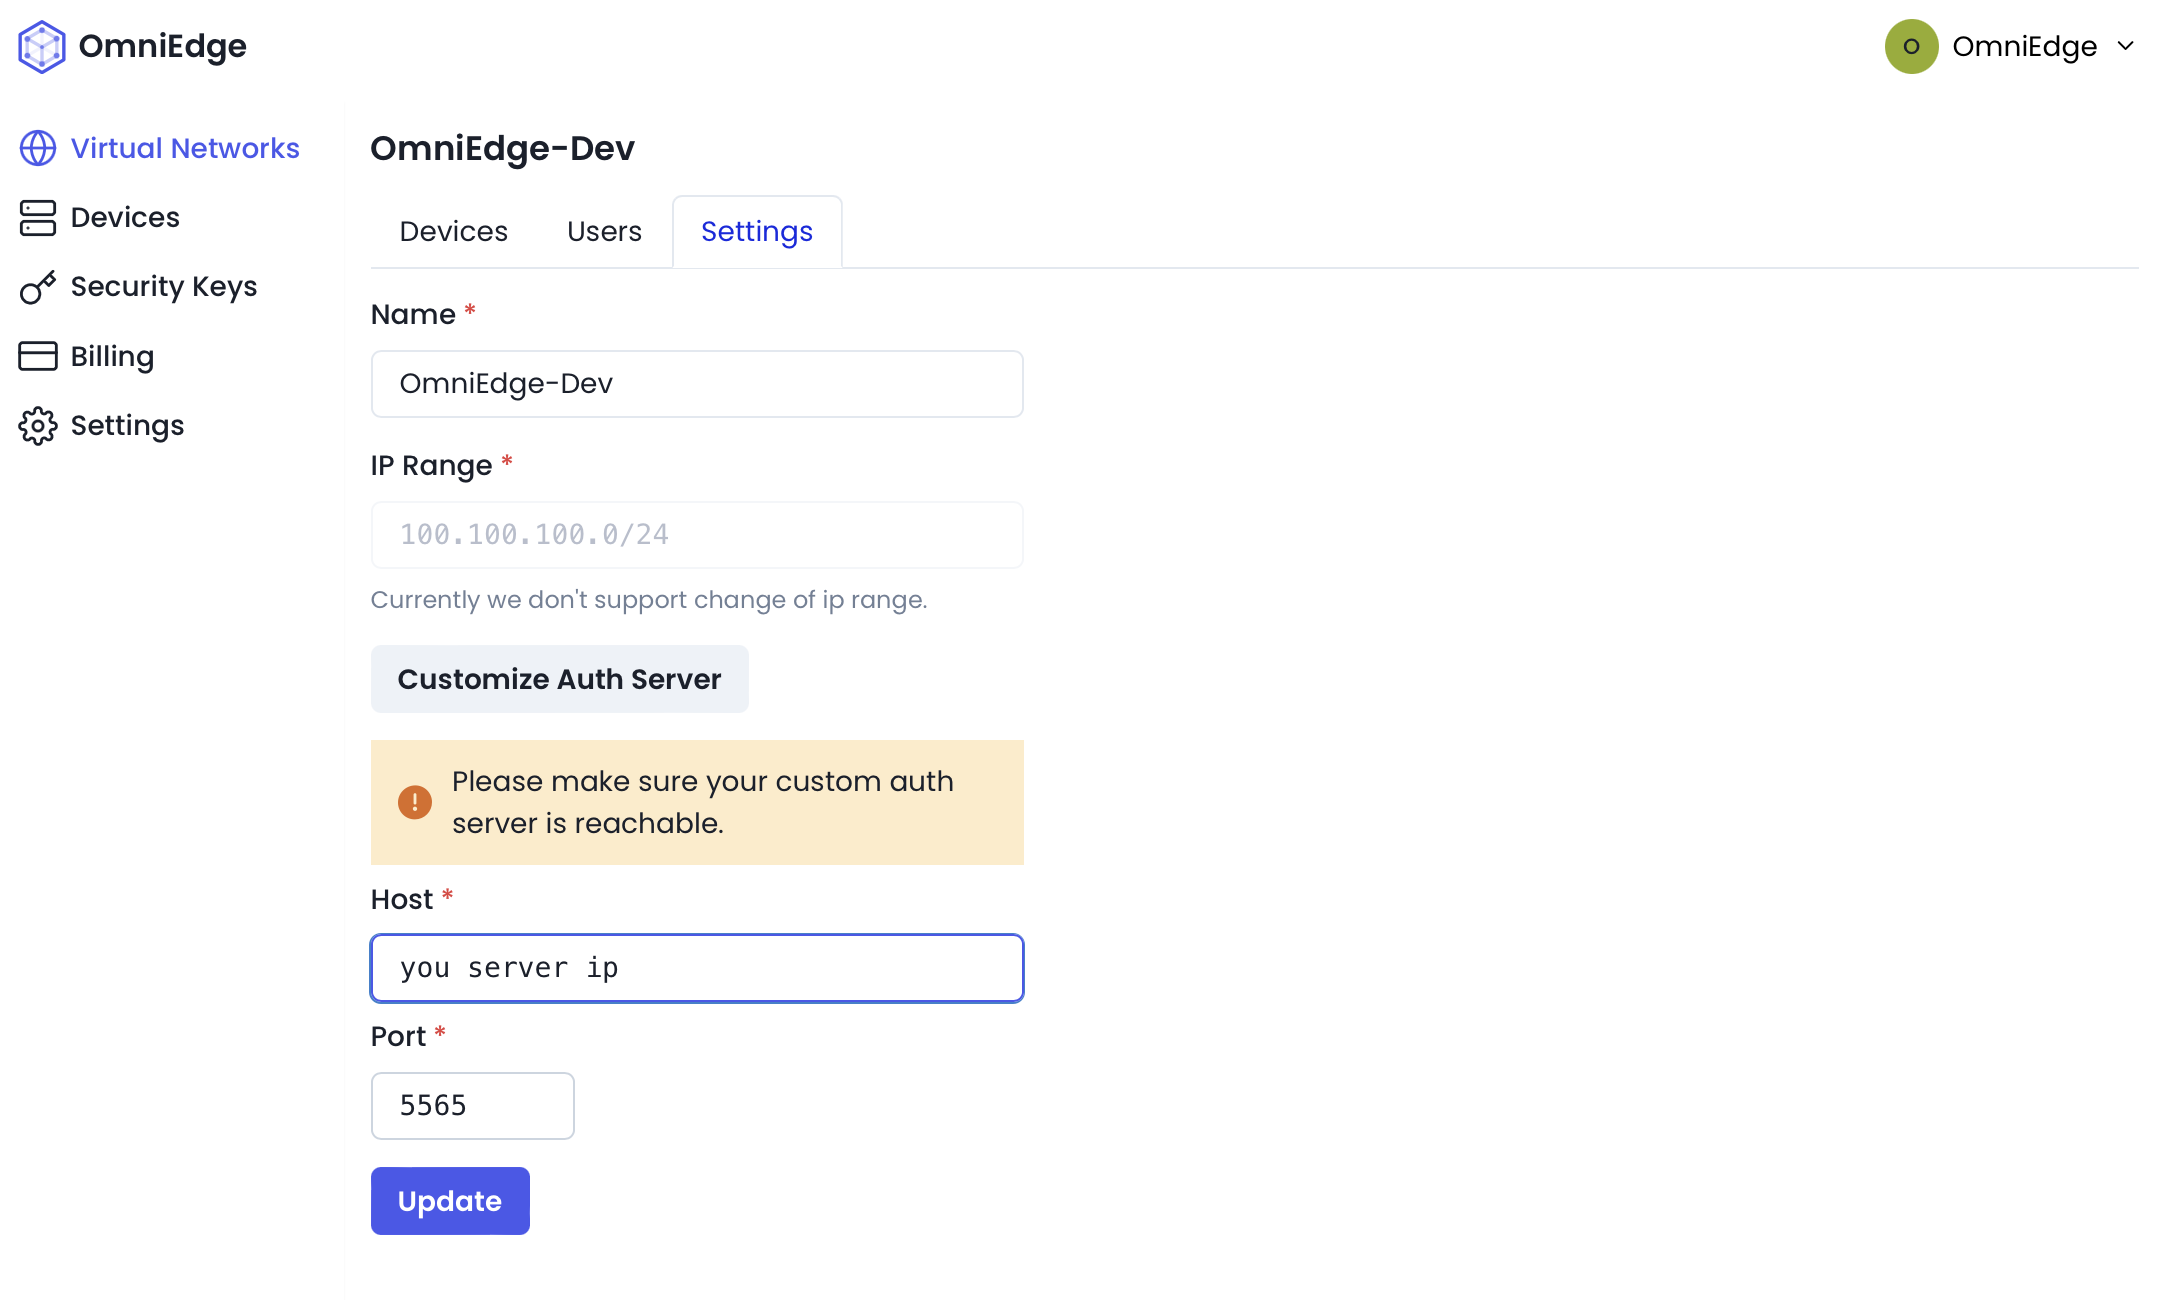
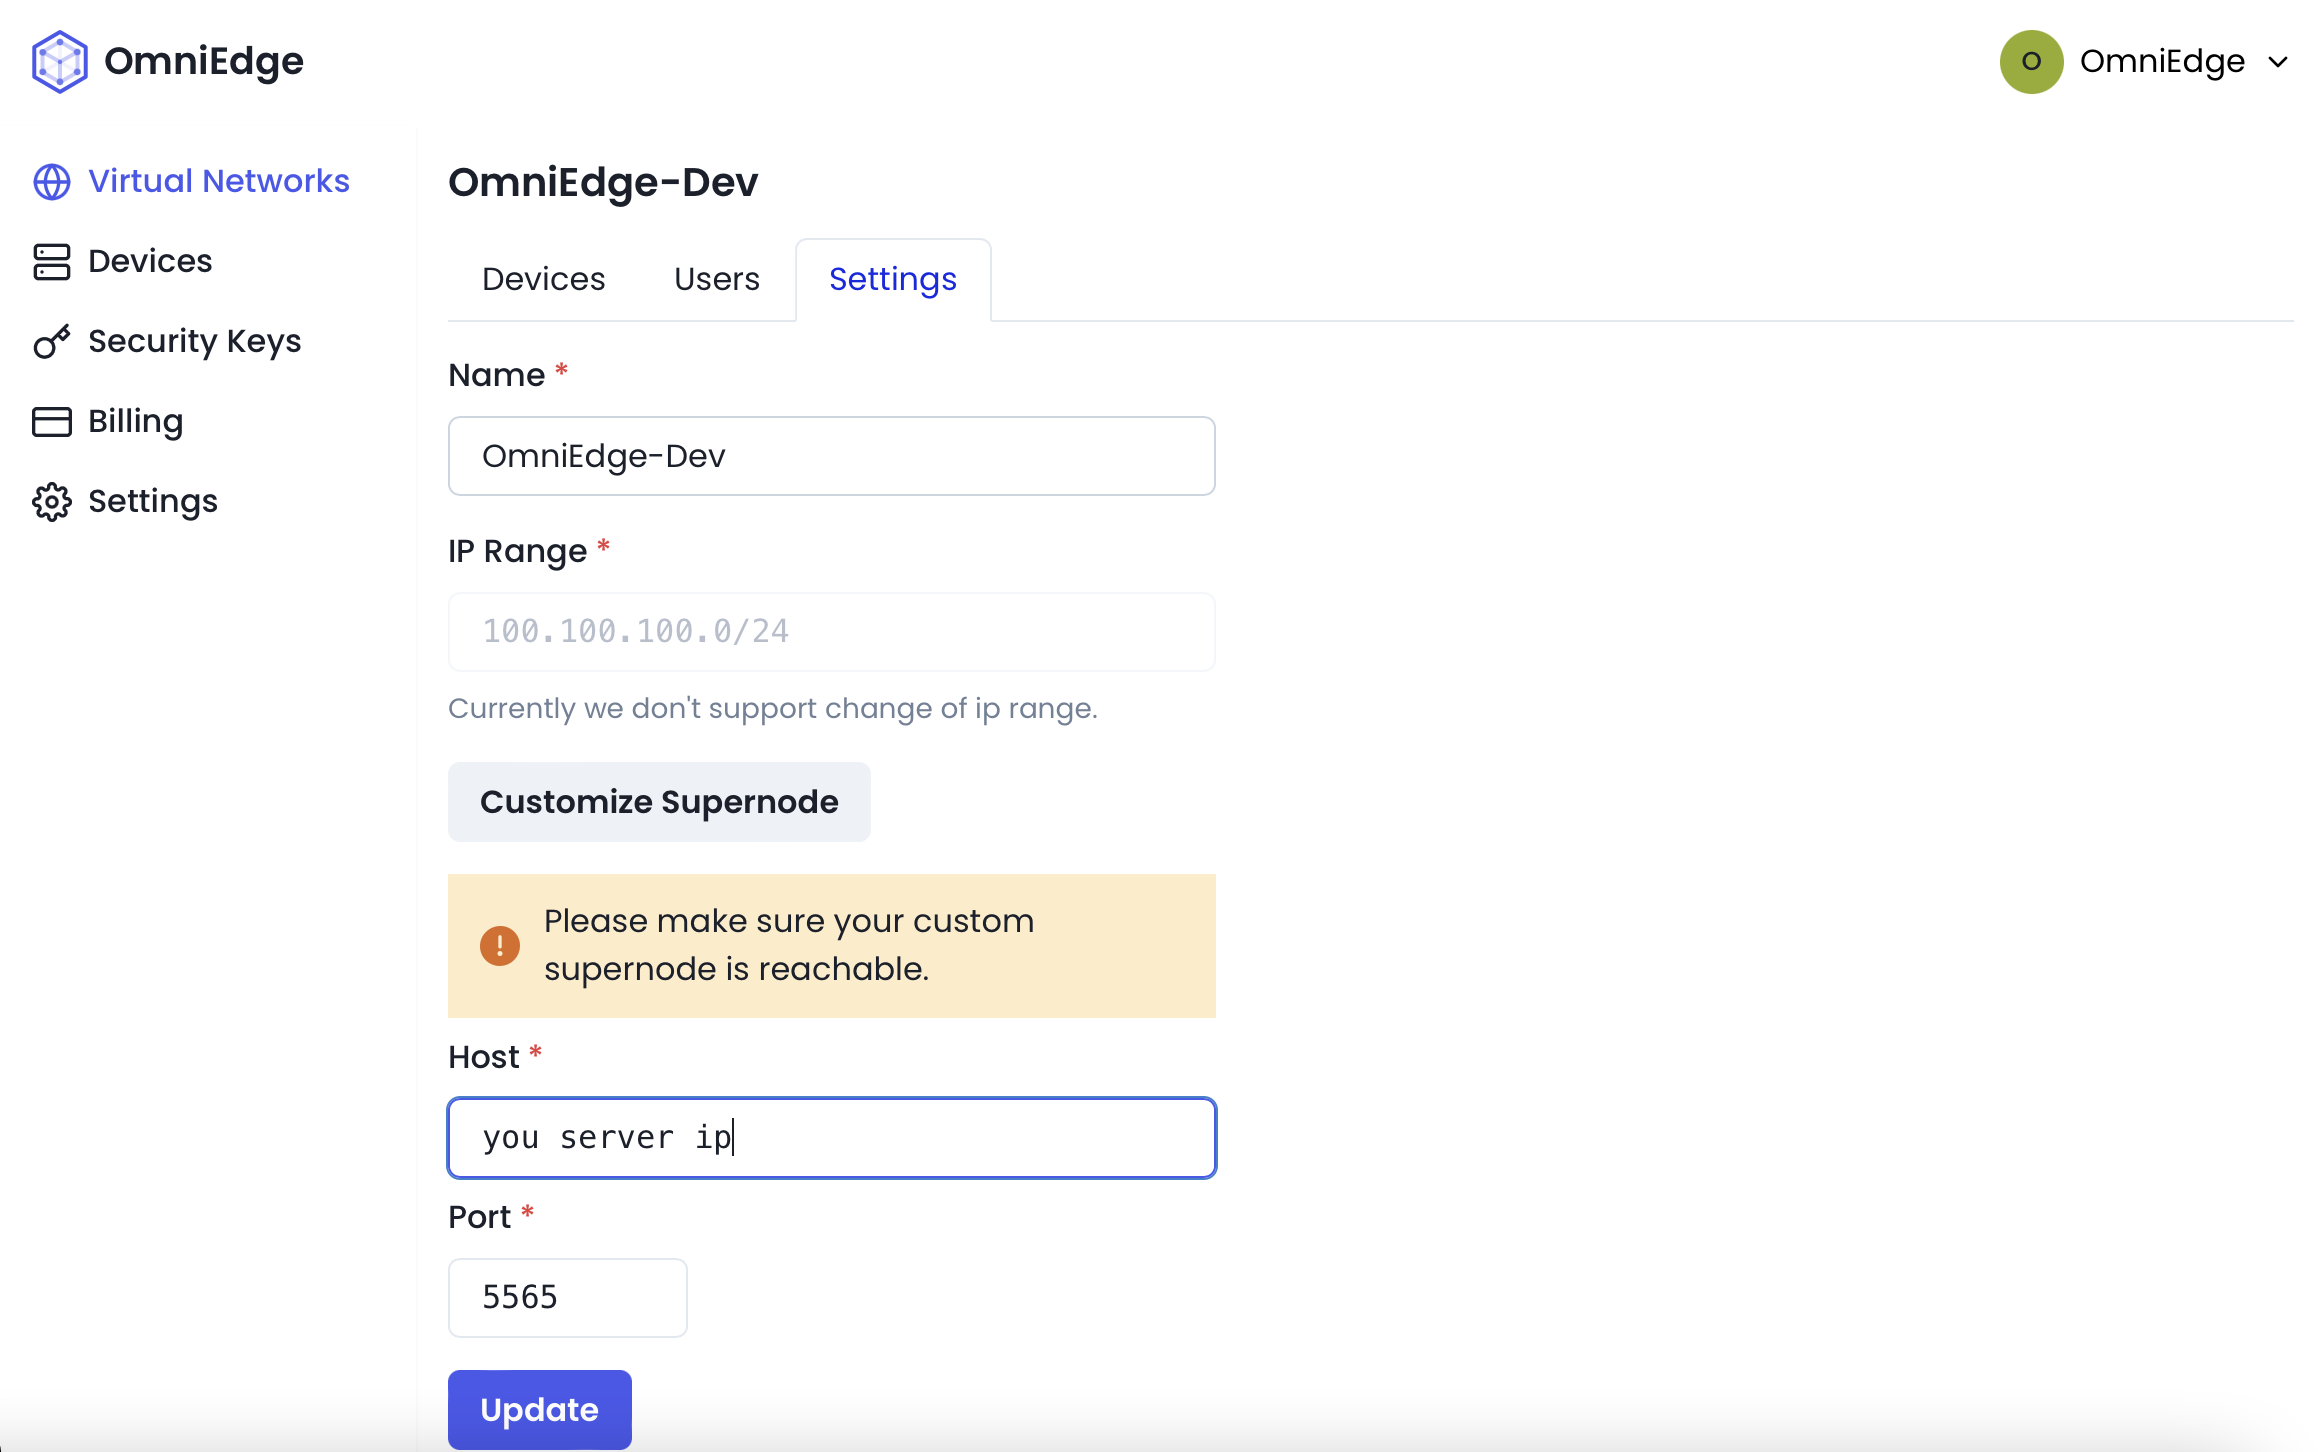
change auth server to supernode

diff --git a/components/Plans.tsx b/components/Plans.tsx
@@ -58,8 +58,8 @@ export const PLANS = {
         tips: "Virtual network only can have devices from maximum of 5 users.",
       },
       {
-        label: "Customize Auth Server",
-        tips: "You can use your own Auth Server for your virtual network.",
+        label: "Customize Supernode",
+        tips: "You can use your own Supernode for your virtual network.",
       },
     ],
   },
@@ -91,8 +91,8 @@ export const PLANS = {
         tips: "Virtual network only can have devices from maximum of 5 users.",
       },
       {
-        label: "Customize Auth Server",
-        tips: "You can use your own Auth Server for your virtual network.",
+        label: "Customize Supernode",
+        tips: "You can use your own Supernode for your virtual network.",
       },
     ],
   },
@@ -121,8 +121,8 @@ export const PLANS = {
         tips: "Sub route allows you connect your devices which is not with Omniedge installed.",
       },
       {
-        label: "Customize Auth Server",
-        tips: "You can use your own Auth Server for your virtual network.",
+        label: "Customize Supernode",
+        tips: "You can use your own Supernode for your virtual network.",
       },
     ],
   },

diff --git a/components/virtual-networks/Form.tsx b/components/virtual-networks/Form.tsx
@@ -102,13 +102,13 @@ const VirtualNetworkForm: React.FC<VirtualNetworkFormProps> = ({ defaultValues, 
           </FormHelperText>
         </FormControl>
 
-        <Button onClick={() => setUseCustomSupernode(!useCustomSupernode)}>Customize Auth Server</Button>
+        <Button onClick={() => setUseCustomSupernode(!useCustomSupernode)}>Customize Supernode</Button>
 
         {useCustomSupernode && (
           <Stack w="full">
             <Alert status="warning">
               <AlertIcon />
-              Please make sure your custom auth server is reachable.
+              Please make sure your custom Supernode is reachable.
             </Alert>
             <FormControl isInvalid={!!(getIn(touched, "server.host") && getIn(errors, "server.host"))} isRequired>
               <FormLabel>Host</FormLabel>

diff --git a/pages/dashboard/virtual-networks/[id]/index.tsx b/pages/dashboard/virtual-networks/[id]/index.tsx
@@ -102,7 +102,7 @@ const VirtualNetworkDetailPage: Page = function (props) {
                     queryClient.invalidateQueries(["virtual-network", id]);
                     showSuccess(
                       "Success",
-                      "Please reload omniedge client in order for customized auth server to take effect."
+                      "Please reload omniedge client in order for customized Supernode to take effect."
                     );
                   })
                   .catch((err) => {

diff --git a/pages/pricing.tsx b/pages/pricing.tsx
@@ -241,7 +241,7 @@ const PricingPage: Page = () => {
             <FeatureDesc>Security Keys</FeatureDesc>
             <FeatureDesc>Subroute</FeatureDesc>
             <FeatureDesc free={false} pro={true} team={true}>
-              Customize Auth Server
+              Customize Supernode
             </FeatureDesc>
             <FeatureDesc>Unlimited data transfer</FeatureDesc>
             <FeatureDesc>Encrypted, peer-to-peer connection</FeatureDesc>

diff --git a/markdowndocs/Docs/Admin.md b/markdowndocs/Docs/Admin.md
@@ -37,9 +37,9 @@ Security Key is used to register devices, there are two kinds of Security OmniEd
 ![](/assets/docs/OmniEdge-CreateSecurityKey.png)
 ![](/assets/docs/OmniEdge-SecurityKey.png)
 
-## 6. Customize Auth Server
+## 6. Customize Supernode
 
-You can setup your own Auth Server server to increase security and speed for your Virtual Network. 
+You can setup your own Supernode server to increase security and speed for your Virtual Network. 
 
 ![](/assets/docs/OmniEdge-CustomizeAuthServer.png)
 
